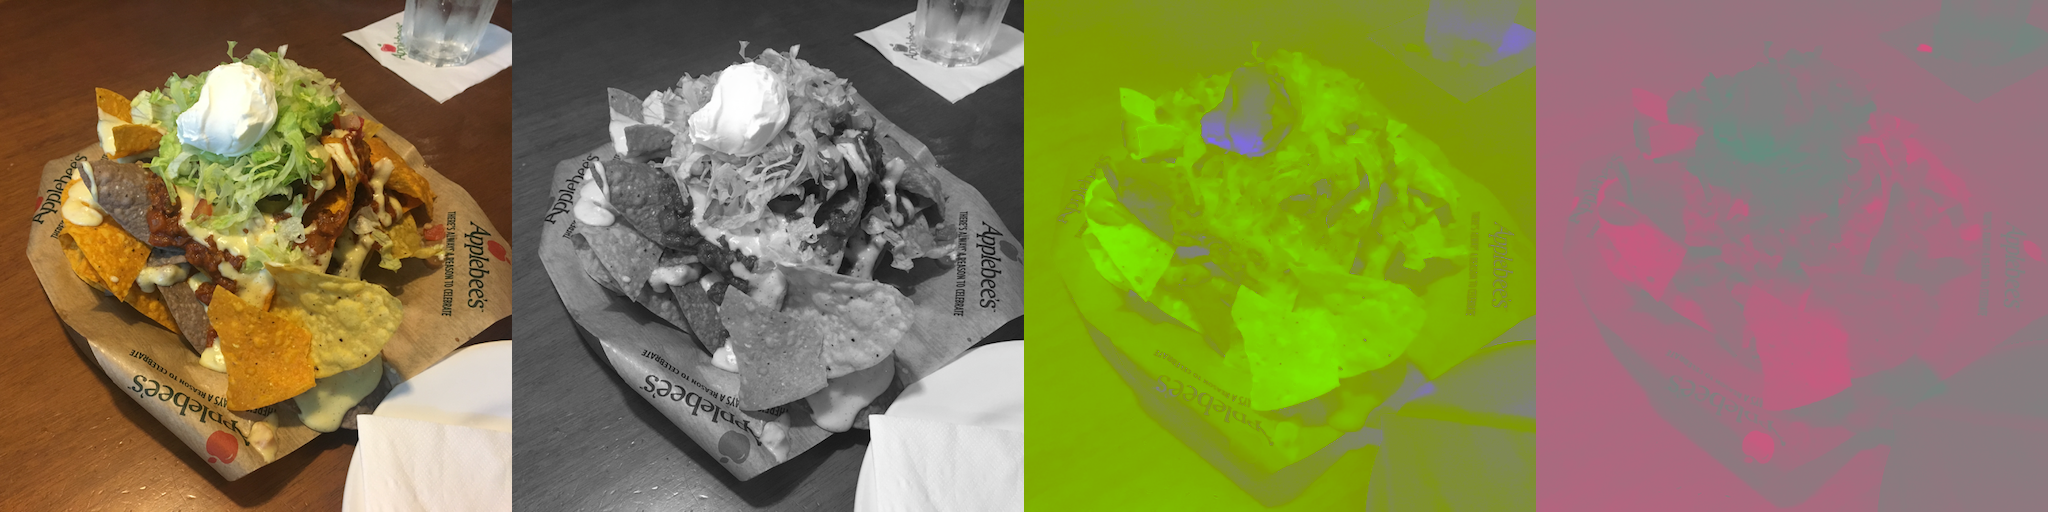
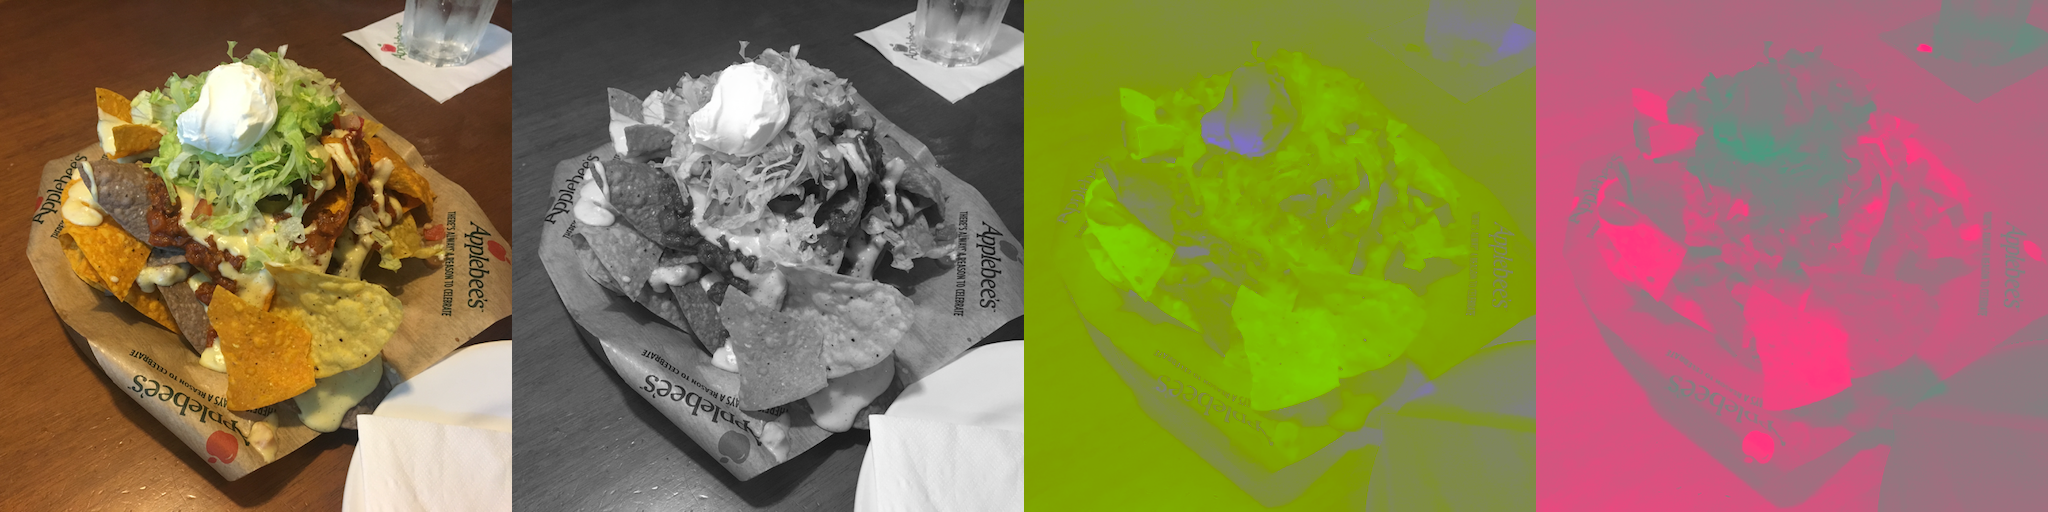
Updates to Lesson2

diff --git a/Lesson 1 - JPEG/YUVDecompose.m b/Lesson 1 - JPEG/YUVDecompose.m
@@ -1,4 +1,4 @@
-nachos = single(imread('SampleNachos.png'));
+nachos = single(imread('SampleNachos.png')) / 255.0;
 yuvMat = single([.3 .587 .114; ...
                 -.14713 -.28886 .436; ...
                 .615 -.5145 -.1]);                
@@ -14,7 +14,7 @@ nachosY = permute(reshape(nachosY, 3, size(nachos, 1), size(nachos, 2)), [2 3 1]
 
 nachosU = nachosYUV;
 nachosU(:, :, 1) = 0.5;
-nachosU(:, :, 2) = nachosU(:, :, 2) * 4; % We multiply for better color visualization
+nachosU(:, :, 2) = nachosU(:, :, 2) * 3; % We multiply for better color visualization
 nachosU(:, :, 3) = 0;
 nachosU = rgbMat * reshape(permute(nachosU, [3 1 2]), 3, []);
 nachosU = permute(reshape(nachosU, 3, size(nachos, 1), size(nachos, 2)), [2 3 1]);
@@ -22,7 +22,7 @@ nachosU = permute(reshape(nachosU, 3, size(nachos, 1), size(nachos, 2)), [2 3 1]
 nachosV = nachosYUV;
 nachosV(:, :, 1) = 0.5;
 nachosV(:, :, 2) = 0;
-nachosV(:, :, 2) = nachosV(:, :, 2) * 4;
+nachosV(:, :, 3) = nachosV(:, :, 3) * 2;
 nachosV = rgbMat * reshape(permute(nachosV, [3 1 2]), 3, []);
 nachosV = permute(reshape(nachosV, 3, size(nachos, 1), size(nachos, 2)), [2 3 1]);
 

diff --git a/Lesson 2 - Color Transform/Lesson.md b/Lesson 2 - Color Transform/Lesson.md
@@ -12,13 +12,13 @@ Recall from the previous lesson that JPEG first splits up an image into three se
 > * The U image, which is an abstract "color difference" plane, telling how much each pixel varies from the Y plane in the blue-yellow color axis.
 > * The V image; same thing as the U plane, but in the red-green axis.
 >
-> ![Example image with YUV separation](../Lesson1/NachosYUV.png)
+> ![Example image with YUV separation](../Lesson 1 - JPEG/NachosYUV.png)
 
 ## The colorful truth
 
-I admittedly had to cheat a little bit when generating this image: the "color difference" planes, U and V, are actually scaled to **four times** their original values (in terms of contrast), just so the difference can clearly be seen. I don't have perfect vision, and my computer monitor isn't the fanciest, most color-correct in the world; I know, however, that my eyes could barely see any shapes in the V plane and saw little of the U plane before I scaled the differences. Here's what the original image looked like:
+I admittedly had to cheat a little bit when generating this image: the "color difference" planes, U and V, are actually **scaled** from their original values (in terms of contrast), just so the difference can clearly be seen. I don't have perfect vision, and my computer monitor isn't the fanciest, most color-correct in the world; I know, however, that my eyes have a hard time resolving detail with the U and V planes; I can mostly see blobs of color, but hardly the edges. Here's what the original image looks like, unscaled:
 
-![Example image with YUV separation, unscaled]()
+![Example image with YUV separation, unscaled](NachosYUVNoScaling.png)
 
 The Y plane, on the other hand, is very easy to see. This is due to the physiological nature of your eyes: [humans are about 10x more sensitive to *contrast* (bright/dark) changes than *hue* (color) changes][some link to human eye physiology]. There's some variation here and there, and some people have better or worse color separation than others (anomalies such as dichromats and tetrachromats exist, too), but using the average human as a model we know we can reduce the importance of color information in relation to contrast information without a significant degradation to the color impressions a person has when seeing an image. This is motivated by our next step in the compression chain, *downsampling*, where we'll discard some parts of the color information.
 
@@ -54,16 +54,18 @@ This isn't a problem nowadays, and is one of the least expensive operations in J
 
 ### 2. Downsampled YUV has artifacts
 
-A *modern* reason for replacing YUV, however, has to do with an artifact I call "red banding". Whenever there is a large segment of red, contrasting with either white or black on the screen, the downsampling on the V channel becomes the most noticeable - it breaks the illusion that such downsampling isn't losing any color detail perceptible to you; you become aware you're looking at a lower resolution image. I suspect this is the reason you see fewer logos with large red segments on the internet compared to real life, [despite red being the most distinguishable color to humans][link color naming evolution].
+A *modern* reason for replacing YUV, however, has to do with an artifact I call "red banding". Whenever there is a large segment of red, contrasting with either white or black on the screen, the downsampling on the V channel becomes the most noticeable - it breaks the illusion that such downsampling isn't losing any perceptible color detail; you become aware you're looking at a lower resolution image. I suspect this is the reason you see fewer logos with large red segments on the internet compared to real life, [despite red being the most distinguishable color to humans][link color naming evolution].
 
-![Image demontrating "red banding" with a red letter on black background]()
+![Image demontrating "red banding" with a red losangle on black background](RedJPG4x.png)
 
-This affects all sorts of entirely red-saturated objects: flowers, cars, neon signs, red ink, blood. By the same token, cyan (the complementary color of red in the RGB color space) should be equally affected; is isn't as perceptible, however, because humans are more sensitive to red than blue. Other completely saturated colors in the RGB color space, such as blue, green, pink, and yellow don't suffer much or at all from banding.
+This affects all sorts of entirely red-saturated objects with very sharp edges: text, flowers, cars, neon signs, red ink, blood. By the same token, cyan (the complementary color of red in the RGB color space) should be equally affected; is isn't as perceptible, however, because humans are more sensitive to red than blue. Other completely saturated colors in the RGB color space, such as blue, green, pink, and yellow don't suffer much or at all from banding.
 
 ![Demonstrations of lack of banding with other colors; text on black background]()
 
-## Our choice: the VCoCg model
+## Our alternative: the VCoCg model
 
-We're instead going to use a modern alternative proposed in the late 2000's, called the YCoCg color transform - Co for *Complementary orange*, and Cg for *Complementary green*. It was originally designed for simpler hardware implementation than the YUV transform, requiring only additions, subtractions, and bit-shifts - as opposed to the truckload of multiplications YUV requires. Interestingly enough, it looks perceptually better than YUV in some scenarios, and at least to my subjective assessment, it doesn't suffer from "red banding" - or any other kind of saturated color banding when downsampled.
+We're instead going to use a modern alternative proposed in the late 2000's, called the YCoCg color transform - Co for *Complementary orange*, and Cg for *Complementary green*. It was originally designed for simpler hardware implementation than the YUV transform, requiring only additions, subtractions, and bit-shifts - as opposed to the truckload of multiplications YUV requires. Interestingly enough, it looks perceptually better than YUV in some scenarios, and at least to my subjective assessment, it doesn't suffer from "red banding" - or any other kind of severe saturated color banding when downsampled.
 
 ![Demonstrations of lack of banding with the YCoCg model; text on black background]()
+
+Now, let's develop some code telling Octave/MatLAB how to convert an image from RGB into YUV.
